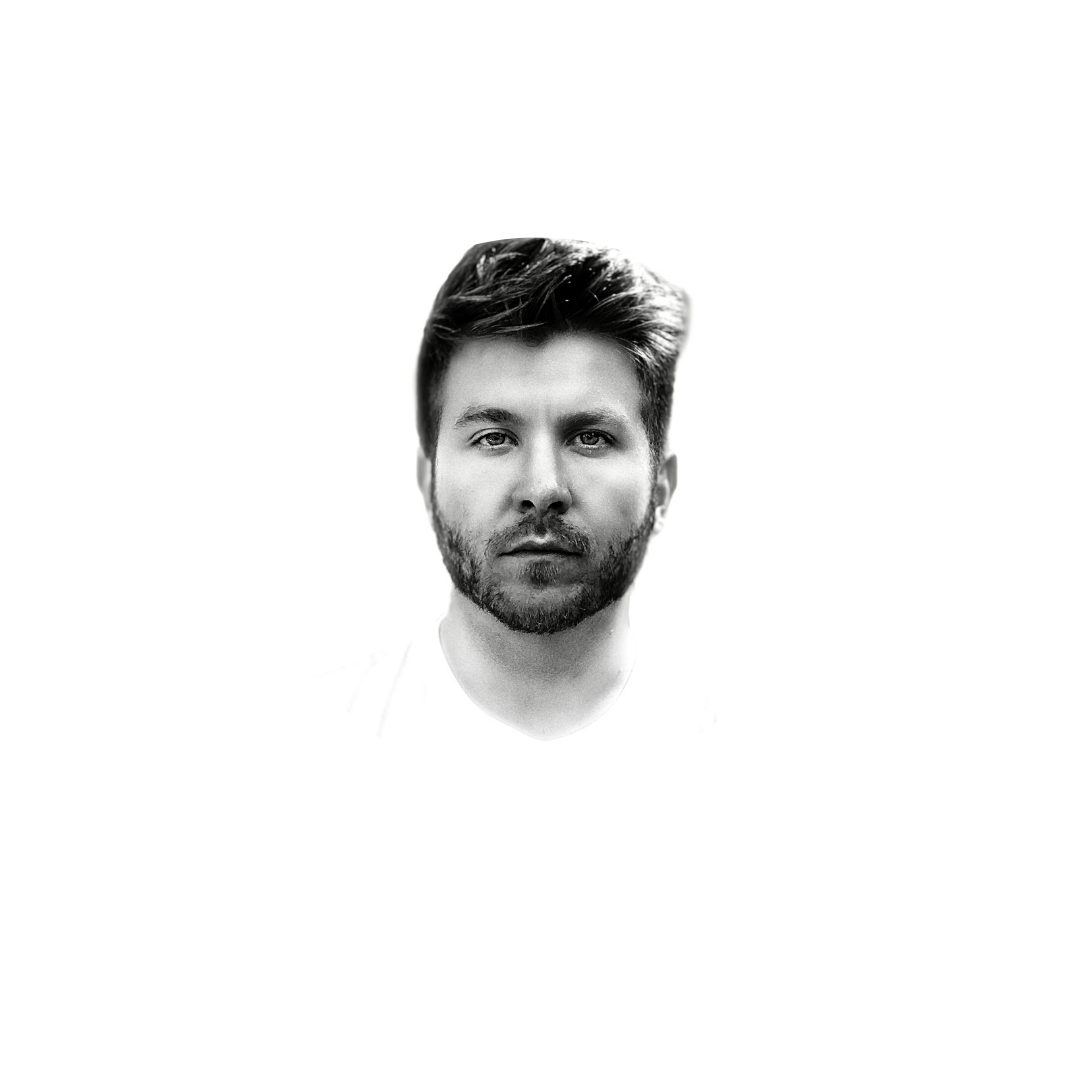
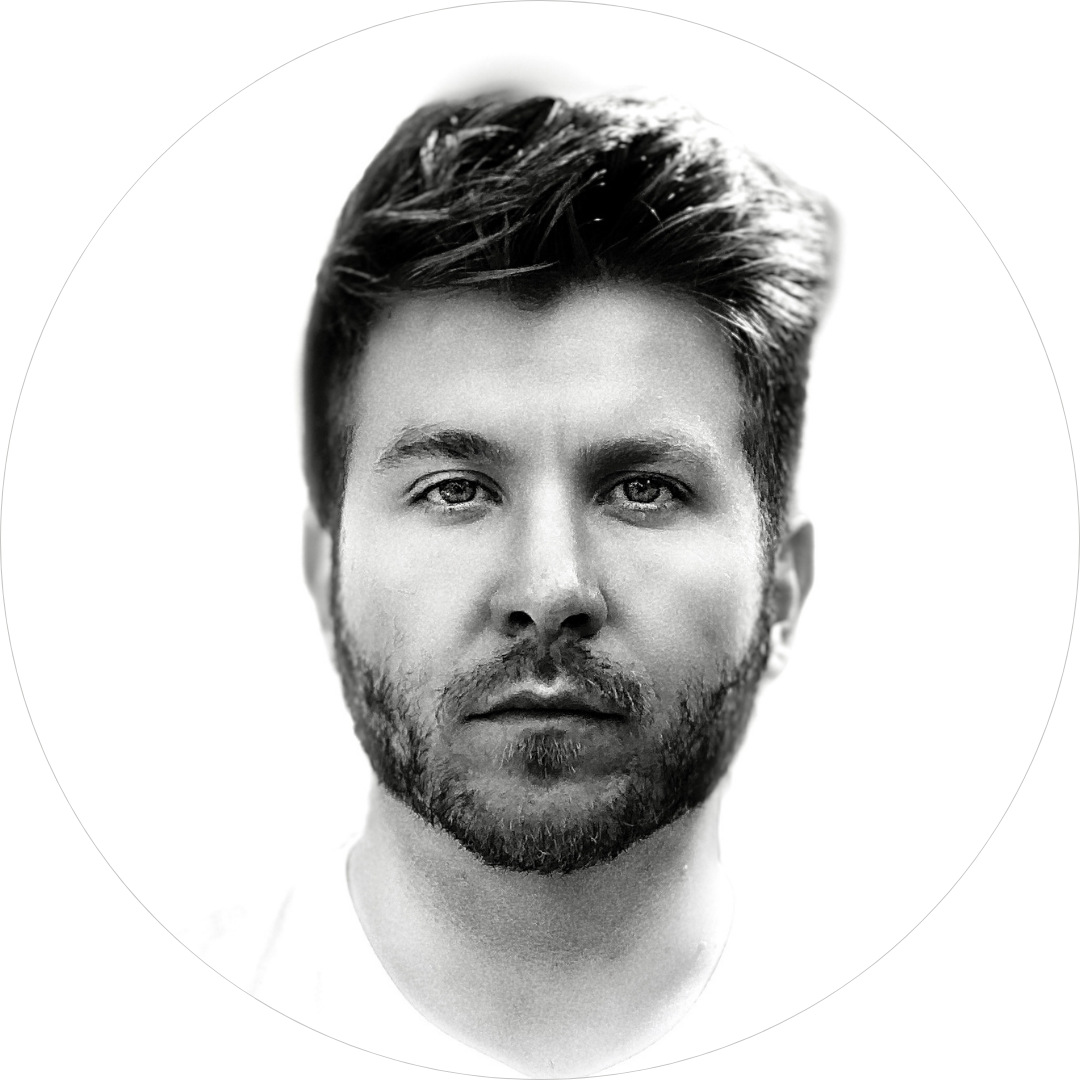
finished hero section desktop version

diff --git a/styles.css b/styles.css
@@ -3,11 +3,12 @@
 * {
     margin: 0;
     padding: 0;
+    /* outline: solid red .1rem; */
 }
 
 body {
     height: 100vh;
-    font-family: Arial, Helvetica, sans-serif
+    font-family: 'Segoe UI', 'Open Sans', 'Helvetica Neue', sans-serif;
 }
 
 
@@ -18,12 +19,11 @@ body {
 .navBar {
     display: flex;
     list-style: none;
-    padding: 5% 20% 0 2%;
+    padding: 1% 10% 0 0;
 }
 
 .navBar li {
-    padding-left: 5%;
-    font-size: 1rem;
+    font-size: 1.5rem;
 }
 
 .navBar a {
@@ -33,14 +33,112 @@ body {
 
 .navBar li:first-child {
     margin-right: auto;
-    font-size: 2rem;
+    font-size: 3rem;
+    padding-left: 5%;
 }
 
 .navBar > *:not(:first-child) {
     padding-top: 1%;
+    padding-left: 5%;
 }
 
 
 
-/* Hero Section */
+
+/* Hero Section - Portrait*/
+
+.hero-section {
+      display: flex;
+      margin-top: 7%;
+      width: 100%;
+}
+
+.portrait {
+    margin-top: 5%;
+    margin-left: 25%;
+}
+
+.hero-section img {
+    width: 100%;
+}
+
+
+
+
+/* Hero Section - Introduction*/
+
+.introduction {
+    text-align: center;
+    margin-top: 5%;
+    margin-right: 25%;
+    width: 100%;
+}
+
+.introduction h4 {
+    color: gray;
+}
+
+.introduction h1 {
+    padding-top: 2%;
+    font-size: 3rem;
+}
+
+.introduction h2 {
+    padding-top: 4%;
+    padding-bottom: 10%;
+    color: gray;
+}
+
+
+/* Hero Section - Buttons */
+
+.intro-btn {
+    padding: 3% 4%;
+    border-radius: 1rem;
+    cursor: pointer;
+}
+
+.intro-btn-1 {
+    margin-right: 2%;
+    background-color: black;
+    color: white;
+    border: none;
+}
+
+.intro-btn-1:hover {
+    color: black;
+    background-color: white;
+    border: gray solid .15rem;
+}
+
+.intro-btn-2 {
+    margin-left: 2%;
+    background-color: white;
+    border: gray solid .15rem;
+}
+
+.intro-btn-2:hover {
+    color: white;
+    background-color: black;
+    border: none;
+}
+
+
+.socials-btns ul {
+    display: flex; 
+    justify-content: center;
+    
+}
+
+.socials-btns a{
+    margin: 5%;
+
+}
+
+.fa {
+   border: none;
+   color: black;
+}
+
+
 

diff --git a/index.html b/index.html
@@ -4,6 +4,8 @@
     <meta charset="UTF-8">
     <meta name="viewport" content="width=device-width, initial-scale=1.0">
     <link rel="stylesheet" href="./styles.css">
+    <link rel="stylesheet" href="https://cdnjs.cloudflare.com/ajax/libs/font-awesome/4.7.0/css/font-awesome.min.css">
+    <link rel="stylesheet" href="https://cdnjs.cloudflare.com/ajax/libs/font-awesome/4.7.0/css/font-awesome.min.css">
     <title>W. Cody | Portfolio</title>
 </head>
 <body>
@@ -21,6 +23,31 @@
     </header>
 
 
+    <div class="hero-section">
+
+        <div class="portrait">
+            <img src="./Resources/Images/SelfiePNG.png" alt="self portrait">
+        </div>
+
+        <div class="introduction">
+            <h4>Hello, I'm</h4>
+            <h1>W. Cody Yonkin</h1>
+            <h2>Frontend Developer</h2>
+
+            <div class="intro-btns">
+                <button class="intro-btn intro-btn-1">Download CV</button>
+                <button class="intro-btn intro-btn-2">Contact Info</button>
+            </div>
+
+            <div class="socials-btns">
+                <ul>
+                    <a href="https://www.linkedin.com/in/wilcoyonkin" target="_blank"><li class="fa fa-linkedin-square" style="font-size: 2.5rem"></li></a>
+                    <a href="https://github.com/WilCoYo/PortfolioHomepage.git" target="_blank"><li class="fa fa-github" style="font-size: 2.5rem"></li></a>
+                </ul>
+            </div>
+        </div>
+        
+    </div>
 
 
 </body>
